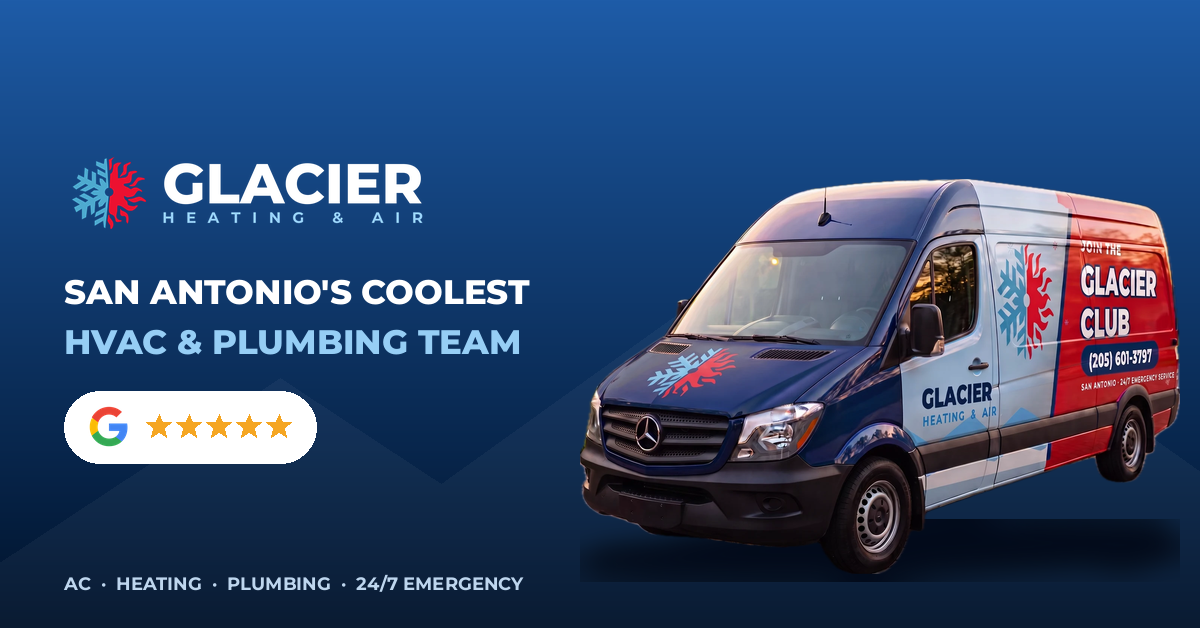
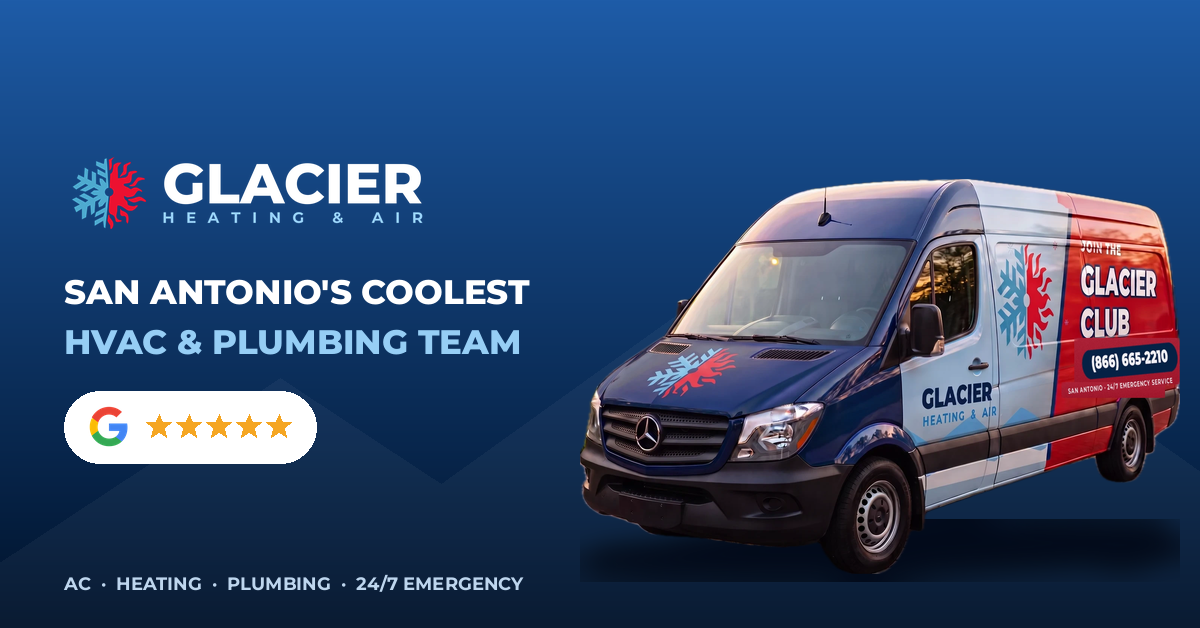
New business phone (866) 665-2210: site config, van wrap repaint, all ads/posts/covers regenerated
Claude-Session: https://claude.ai/code/session_0176LFk56ELEVayoECBSNudw

Changed region(s): [[0.8942, 0.5143, 0.9867, 0.6354]]

diff --git a/glacier-site/lib/site.ts b/glacier-site/lib/site.ts
@@ -12,8 +12,8 @@ export const site = {
   foundedYear: 2009,
 
   // ---- Contact (PLACEHOLDERS — replace with real business details) ----
-  phoneDisplay: "(205) 601-3797",
-  phoneHref: "tel:+12056013797",
+  phoneDisplay: "(866) 665-2210",
+  phoneHref: "tel:+18666652210",
   email: "hello@callglacier.com",
   address: {
     street: "1100 NW Loop 410",

diff --git a/glacier-site/scratchpad/fix_van_phone.py b/glacier-site/scratchpad/fix_van_phone.py
@@ -1,0 +1,42 @@
+"""Repaint the phone pill on the van wrap: (205) 601-3797 -> (866) 665-2210.
+The rear panel recedes in perspective, so the pill tile is rendered at natural
+proportions, squashed horizontally to match, and rotated to the wrap's tilt."""
+from PIL import Image, ImageDraw, ImageFont, ImageFilter
+import numpy as np
+
+van = Image.open("public/van.webp").convert("RGBA")
+a = np.array(van.convert("RGB")).astype(int)
+
+# 1) cover the existing pill with panel red (median of surrounding panel)
+samples = [a[430:545, 1292:1322], a[406:428, 1360:1560]]
+med = np.median(np.vstack([s.reshape(-1, 3) for s in samples]), axis=0).astype(int)
+cx0, cy0, cx1, cy1 = 1318, 426, 1600, 548
+patch = Image.new("RGB", (cx1-cx0, cy1-cy0), tuple(med))
+noise = np.random.default_rng(11).normal(0, 3, (patch.height, patch.width, 1)).repeat(3, axis=2)
+# subtle vertical lighting falloff like the panel
+grad = np.linspace(6, -6, patch.height).reshape(-1, 1, 1).repeat(patch.width, 1).repeat(3, 2)
+patch = Image.fromarray(np.clip(np.array(patch)+noise+grad, 0, 255).astype("uint8"))
+mask = Image.new("L", patch.size, 0)
+ImageDraw.Draw(mask).rounded_rectangle([0, 0, patch.width, patch.height], radius=10, fill=255)
+mask = mask.filter(ImageFilter.GaussianBlur(5))
+van.paste(patch, (cx0, cy0), mask)
+
+# 2) fresh pill + number at natural proportions
+NAVY = (0, 34, 71, 255)
+fnt = ImageFont.truetype("/tmp/mfonts/Montserrat-Black.ttf", 64)
+txt = "(866) 665-2210"
+tile = Image.new("RGBA", (620, 130), (0, 0, 0, 0))
+td = ImageDraw.Draw(tile)
+td.rounded_rectangle([4, 12, 616, 118], radius=53, fill=NAVY)
+bb = td.textbbox((0, 0), txt, font=fnt)
+td.text(((620-(bb[2]-bb[0]))/2-bb[0], (130-(bb[3]-bb[1]))/2-bb[1]), txt, font=fnt, fill=(245, 247, 250, 255))
+
+# 3) squash to the wrap's perspective width, tilt to match, blend on
+tile = tile.resize((272, 104), Image.LANCZOS)
+tile = tile.rotate(5.5, resample=Image.BICUBIC, expand=True)
+tile = tile.filter(ImageFilter.GaussianBlur(0.5))
+al = tile.getchannel("A").point(lambda v: int(v*0.97)); tile.putalpha(al)
+van.alpha_composite(tile, (1322, 424))
+
+van.save("public/van.webp", "WEBP", quality=92)
+print("van wrap repainted", van.size)

diff --git a/glacier-site/scratchpad/make_posts.py b/glacier-site/scratchpad/make_posts.py
@@ -161,7 +161,7 @@ center(d,"NO HEAT?",f("Black",108),448,ICE)
 center(d,"We answer day or night — nights, weekends,",f("Bold",30),566,(255,255,255,215))
 center(d,"and holidays included.",f("Bold",30),610,(255,255,255,215))
 # giant phone pill
-pht="(205) 601-3797"; phf=f("ExtraBold",54)
+pht="(866) 665-2210"; phf=f("ExtraBold",54)
 pw,phh,pbb=T(d,pht,phf)
 isz=52; pad=52; gap=22
 totw=pad+isz+gap+pw+pad; toth=108
@@ -225,7 +225,7 @@ for (icn,t1,t2,s1,s2),cx in zip(badges,colx):
     center(d,t2,f("ExtraBold",28),byy+172,(255,255,255,255),cx)
     center(d,s1,f("Bold",20),byy+210,ICE2,cx)
     center(d,s2,f("Bold",20),byy+236,ICE2,cx)
-pht="(205) 601-3797"; phf=f("ExtraBold",40)
+pht="(866) 665-2210"; phf=f("ExtraBold",40)
 pw_,phh_,pbb=T(d,pht,phf)
 isz=40; pad=44; gap=18
 totw=pad+isz+gap+pw_+pad; toth=84

diff --git a/glacier-site/scratchpad/make_van_ad.py b/glacier-site/scratchpad/make_van_ad.py
@@ -201,14 +201,14 @@ img.alpha_composite(phicon,(MARG+16,row1_cy-22))
 d=ImageDraw.Draw(img,"RGBA")
 px0=MARG+100
 d.text((px0,row1_cy-46),"CALL US TODAY!",font=f("Bold",25),fill=(255,255,255,225))
-d.text((px0,row1_cy-14),"(205) 601-3797",font=f("Black",50),fill=(255,255,255,255))
+d.text((px0,row1_cy-14),"(866) 665-2210",font=f("Black",50),fill=(255,255,255,255))
 
 # right: trust items, measured widths, right-aligned to margin
 items=[("shield","100% SATISFACTION","GUARANTEED"),
        ("wrench","WARRANTY ON","ALL UNITS"),
        ("home","PERFECT FOR","HOME & OFFICE")]
 ICO=42; IG=13; DIV=30
-num_end = px0 + tw("(205) 601-3797", f("Black",50))
+num_end = px0 + tw("(866) 665-2210", f("Black",50))
 fs=20
 while fs>=14:
     ft=f("Bold",fs)

diff --git a/glacier-site/scratchpad/finish_yeti_v3.py b/glacier-site/scratchpad/finish_yeti_v3.py
@@ -124,8 +124,8 @@ def build(src, out):
     d=ImageDraw.Draw(img,"RGBA")
     px0=M+126
     d.text((px0,r1-58),"CALL US TODAY!",font=f("Bold",32),fill=(255,255,255,230))
-    d.text((px0,r1-18),"(205) 601-3797",font=f("Black",62),fill=(255,255,255,255))
-    num_end=px0+T(d,"(205) 601-3797",f("Black",62))[0]
+    d.text((px0,r1-18),"(866) 665-2210",font=f("Black",62),fill=(255,255,255,255))
+    num_end=px0+T(d,"(866) 665-2210",f("Black",62))[0]
     items=[("shield","100% SATISFACTION","GUARANTEED"),
            ("wrench","WARRANTY ON","ALL UNITS"),
            ("home","PERFECT FOR","HOME & OFFICE")]

diff --git a/glacier-site/scratchpad/finish_yeti_v4.py b/glacier-site/scratchpad/finish_yeti_v4.py
@@ -78,8 +78,8 @@ def bars(art, out):
     d=ImageDraw.Draw(img,"RGBA")
     px0=M+126
     d.text((px0,r1-58),"CALL US TODAY!",font=f("Bold",32),fill=(255,255,255,230))
-    d.text((px0,r1-18),"(205) 601-3797",font=f("Black",62),fill=(255,255,255,255))
-    num_end=px0+T(d,"(205) 601-3797",f("Black",62))[0]
+    d.text((px0,r1-18),"(866) 665-2210",font=f("Black",62),fill=(255,255,255,255))
+    num_end=px0+T(d,"(866) 665-2210",f("Black",62))[0]
     items=[("shield","100% SATISFACTION","GUARANTEED"),
            ("wrench","WARRANTY ON","ALL UNITS"),
            ("home","PERFECT FOR","HOME & OFFICE")]

diff --git a/glacier-site/scratchpad/refine_yeti_ad.py b/glacier-site/scratchpad/refine_yeti_ad.py
@@ -70,8 +70,8 @@ img.alpha_composite(ph,(M+21,r1cy-27))
 d=ImageDraw.Draw(img,"RGBA")
 px0=M+126
 d.text((px0,r1cy-58),"CALL US TODAY!",font=f("Bold",32),fill=(255,255,255,230))
-d.text((px0,r1cy-18),"(205) 601-3797",font=f("Black",62),fill=(255,255,255,255))
-num_end=px0+T("(205) 601-3797",f("Black",62))[0]
+d.text((px0,r1cy-18),"(866) 665-2210",font=f("Black",62),fill=(255,255,255,255))
+num_end=px0+T("(866) 665-2210",f("Black",62))[0]
 
 items=[("shield","100% SATISFACTION","GUARANTEED"),
        ("wrench","WARRANTY ON","ALL UNITS"),

diff --git a/glacier-site/scratchpad/make_og.py b/glacier-site/scratchpad/make_og.py
@@ -84,7 +84,7 @@ for i in range(5): star(sx + i*star_gap, r1, star_r, (245,166,35,255))
 text_vc(colx, r2, "687+ Google Reviews", rev_font, (92,112,132,255))
 
 # CTA: red phone pill with a rasterized phone icon + centered number
-ph_font = f("ExtraBold", 34); ph_txt = "(205) 601-3797"
+ph_font = f("ExtraBold", 34); ph_txt = "(866) 665-2210"
 pb = d.textbbox((0,0), ph_txt, font=ph_font); ph_w = pb[2]-pb[0]
 gap_icon = 16
 try:

diff --git a/glacier-site/scratchpad/make_posts_extra.py b/glacier-site/scratchpad/make_posts_extra.py
@@ -55,7 +55,7 @@ def footer(img):
     d.text((S-M-w-bb[0],FOOT_Y+28+(42-h)/2-bb[1]),t,font=font,fill=(255,255,255,235))
     return img
 def phone_pill(img,d,cy,size=40):
-    pht="(205) 601-3797"; phf=f("ExtraBold",size)
+    pht="(866) 665-2210"; phf=f("ExtraBold",size)
     pw,phh,pbb=T(d,pht,phf)
     isz=size; pad=int(size*1.1); gap=18
     totw=pad+isz+gap+pw+pad; toth=int(size*2.1)

diff --git a/glacier-site/scratchpad/make_fb_cover.py b/glacier-site/scratchpad/make_fb_cover.py
@@ -82,7 +82,7 @@ nw=tw("4.9",numf); sr_=10; sgap=24; stars_w=sgap*4+sr_*2
 colw=max(nw+14+stars_w, tw("687+ Google Reviews",revf))
 pw=pad+gs+16+colw+pad; pill_h=84
 # phone pill metrics
-phf=f("ExtraBold",27); pht="(205) 601-3797"
+phf=f("ExtraBold",27); pht="(866) 665-2210"
 pw2=28+16+tw(pht,phf)+56+2; ph2=54
 
 GAP1,GAP2,GAP3,GAP4 = 26,14,24,20

diff --git a/glacier-site/brand/META-ADS-PLAYBOOK.md b/glacier-site/brand/META-ADS-PLAYBOOK.md
@@ -59,7 +59,7 @@ Meta sells the FRONT of the ladder. The back is where the money is.
 4. **Q3 (multiple choice, URGENCY):** "When do you want service?" → ASAP / This week / Just planning ahead.
 5. **Q4 (short answer):** ZIP code. *(Kills out-of-area waste; SA metro only.)*
 6. **Prefill:** Name, phone, email (autofilled by Meta — leave these last).
-7. **Review screen** (comes with Higher Intent) → **Thank-you screen:** "We'll call you within minutes — save this number so you know it's us: (205) 601-3797" + button → callglacier.com.
+7. **Review screen** (comes with Higher Intent) → **Thank-you screen:** "We'll call you within minutes — save this number so you know it's us: (866) 665-2210" + button → callglacier.com.
 
 **Form design law:** every added question cuts volume ~10-25% and raises quality. 4 questions + prefill is the sweet spot for home services. Never ask what you don't use.
 

diff --git a/glacier-site/SEO.md b/glacier-site/SEO.md
@@ -55,7 +55,7 @@ calls. It's ranked almost entirely by GBP signals, not your website.
   contractor", "Heating contractor", "Plumber".
 - Fill **everything**: hours, service areas (add each city), services list
   (mirror our service pages), 20+ real photos (trucks, team, installs,
-  the wrapped van), the phone `(205) 601-3797`, and the website URL.
+  the wrapped van), the phone `(866) 665-2210`, and the website URL.
 - Turn on **messaging** and **booking**.
 - Post weekly (offers, tips, jobs) — GBP posts are a ranking signal.
 
